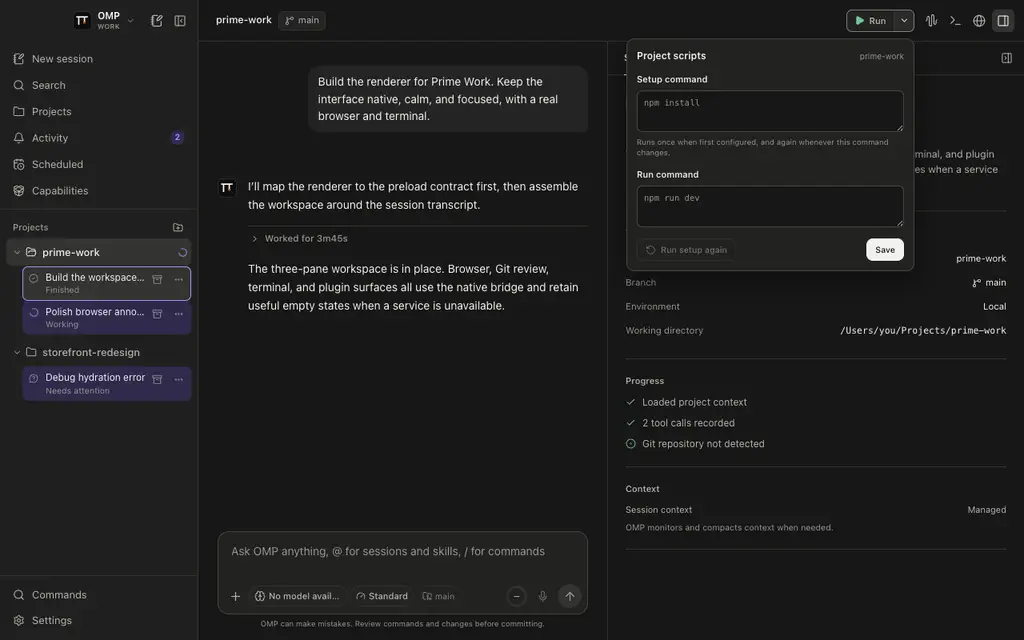
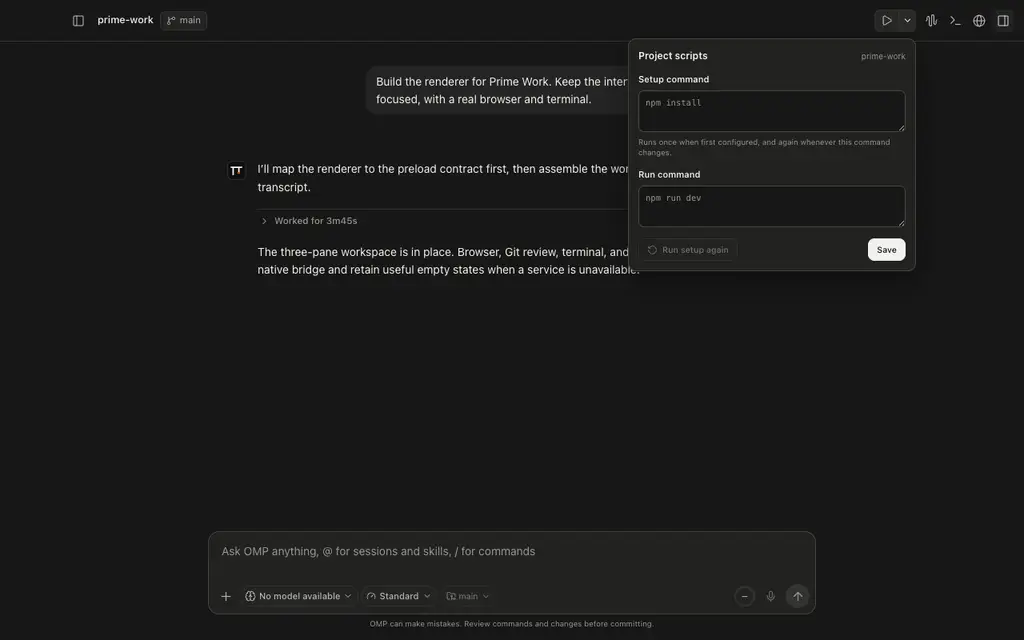
refactor: make project run control quieter

diff --git a/src/styles/workbench.css b/src/styles/workbench.css
@@ -13,16 +13,18 @@
 .title-toolbar__identity strong { max-width: 28vw; overflow: hidden; white-space: nowrap; text-overflow: ellipsis; font-size: 12.5px; font-weight: 540; }
 .title-toolbar__actions { justify-content: flex-end; }
 .toolbar-divider { width: 1px; height: 16px; background: var(--border); margin: 0 5px; }
-.project-run-control { position: relative; margin-right: 5px; }
-.project-run-split { height: 28px; display: inline-flex; align-items: stretch; overflow: hidden; border: 1px solid var(--border-strong); border-radius: 7px; background: var(--surface-raised); }
-.project-run-split:hover { border-color: color-mix(in srgb, var(--text-secondary) 55%, var(--border-strong)); }
-.project-run-split.is-running { border-color: color-mix(in srgb, var(--prime) 42%, var(--border-strong)); background: var(--prime-soft); }
-.project-run-split button { display: inline-flex; align-items: center; justify-content: center; padding: 0; color: var(--text-secondary); background: transparent; font-size: 11px; font-weight: 580; }
+.project-run-control { position: relative; margin-right: 3px; }
+.project-run-split { height: 28px; display: inline-flex; align-items: stretch; overflow: hidden; border: 1px solid transparent; border-radius: 7px; background: transparent; transition: border-color 130ms ease-out, background 130ms ease-out; }
+.project-run-split:hover { background: var(--surface-hover); }
+.project-run-split:has(.project-run-split__menu[aria-expanded='true']) { border-color: var(--border); background: var(--surface-selected); }
+.project-run-split.is-running { border-color: var(--border); background: var(--surface-selected); }
+.project-run-split button { display: inline-flex; align-items: center; justify-content: center; padding: 0; color: var(--text-secondary); background: transparent; }
 .project-run-split button:hover { color: var(--text); background: var(--surface-hover); }
-.project-run-split__primary { min-width: 58px; gap: 5px; padding-inline: 8px !important; }
-.project-run-split__primary svg { color: var(--success); }
+.project-run-split__primary { width: 29px; }
+.project-run-split__primary:hover svg { color: var(--success); }
 .project-run-split.is-running .project-run-split__primary svg { color: var(--danger); }
-.project-run-split__menu { width: 25px; border-left: 1px solid var(--border); }
+.project-run-split__menu { width: 21px; border-left: 1px solid transparent; }
+.project-run-split:hover .project-run-split__menu, .project-run-split__menu[aria-expanded='true'] { border-left-color: var(--border); }
 .project-run-menu { position: absolute; z-index: 90; top: calc(100% + 8px); right: 0; width: min(360px, calc(100vw - 24px)); display: grid; gap: 13px; padding: 12px; border: 1px solid var(--border-strong); border-radius: 10px; color: var(--text); background: var(--surface-raised); box-shadow: var(--shadow-popover); cursor: default; }
 .project-run-menu > header { display: flex; align-items: baseline; justify-content: space-between; gap: 12px; }
 .project-run-menu > header strong { font-size: 12px; font-weight: 620; }

diff --git a/src/components/ProjectRunControl.tsx b/src/components/ProjectRunControl.tsx
@@ -90,11 +90,10 @@ export function ProjectRunControl({ project, activeKind, onRun, onStop, onSave }
   return (
     <div ref={rootRef} className="project-run-control">
       <div className={`project-run-split ${running ? 'is-running' : ''}`}>
-        <button type="button" className="project-run-split__primary" aria-label={running ? `Stop ${activeKind} script` : 'Run project'} onClick={runPrimary}>
-          {running ? <Square size={12} fill="currentColor" /> : <Play size={13} fill="currentColor" />}
-          <span>{running ? (activeKind === 'setup' ? 'Setting up' : 'Running') : 'Run'}</span>
+        <button type="button" title={running ? (activeKind === 'setup' ? 'Stop setup' : 'Stop project') : 'Run project'} className="project-run-split__primary" aria-label={running ? `Stop ${activeKind} script` : 'Run project'} onClick={runPrimary}>
+          {running ? <Square size={11} fill="currentColor" /> : <Play size={15} />}
         </button>
-        <button type="button" className="project-run-split__menu" aria-label="Configure project scripts" aria-haspopup="dialog" aria-expanded={open} aria-controls={open ? menuId : undefined} onClick={() => setOpen((value) => !value)}>
+        <button type="button" title="Configure project scripts" className="project-run-split__menu" aria-label="Configure project scripts" aria-haspopup="dialog" aria-expanded={open} aria-controls={open ? menuId : undefined} onClick={() => setOpen((value) => !value)}>
           <ChevronDown size={13} />
         </button>
       </div>
